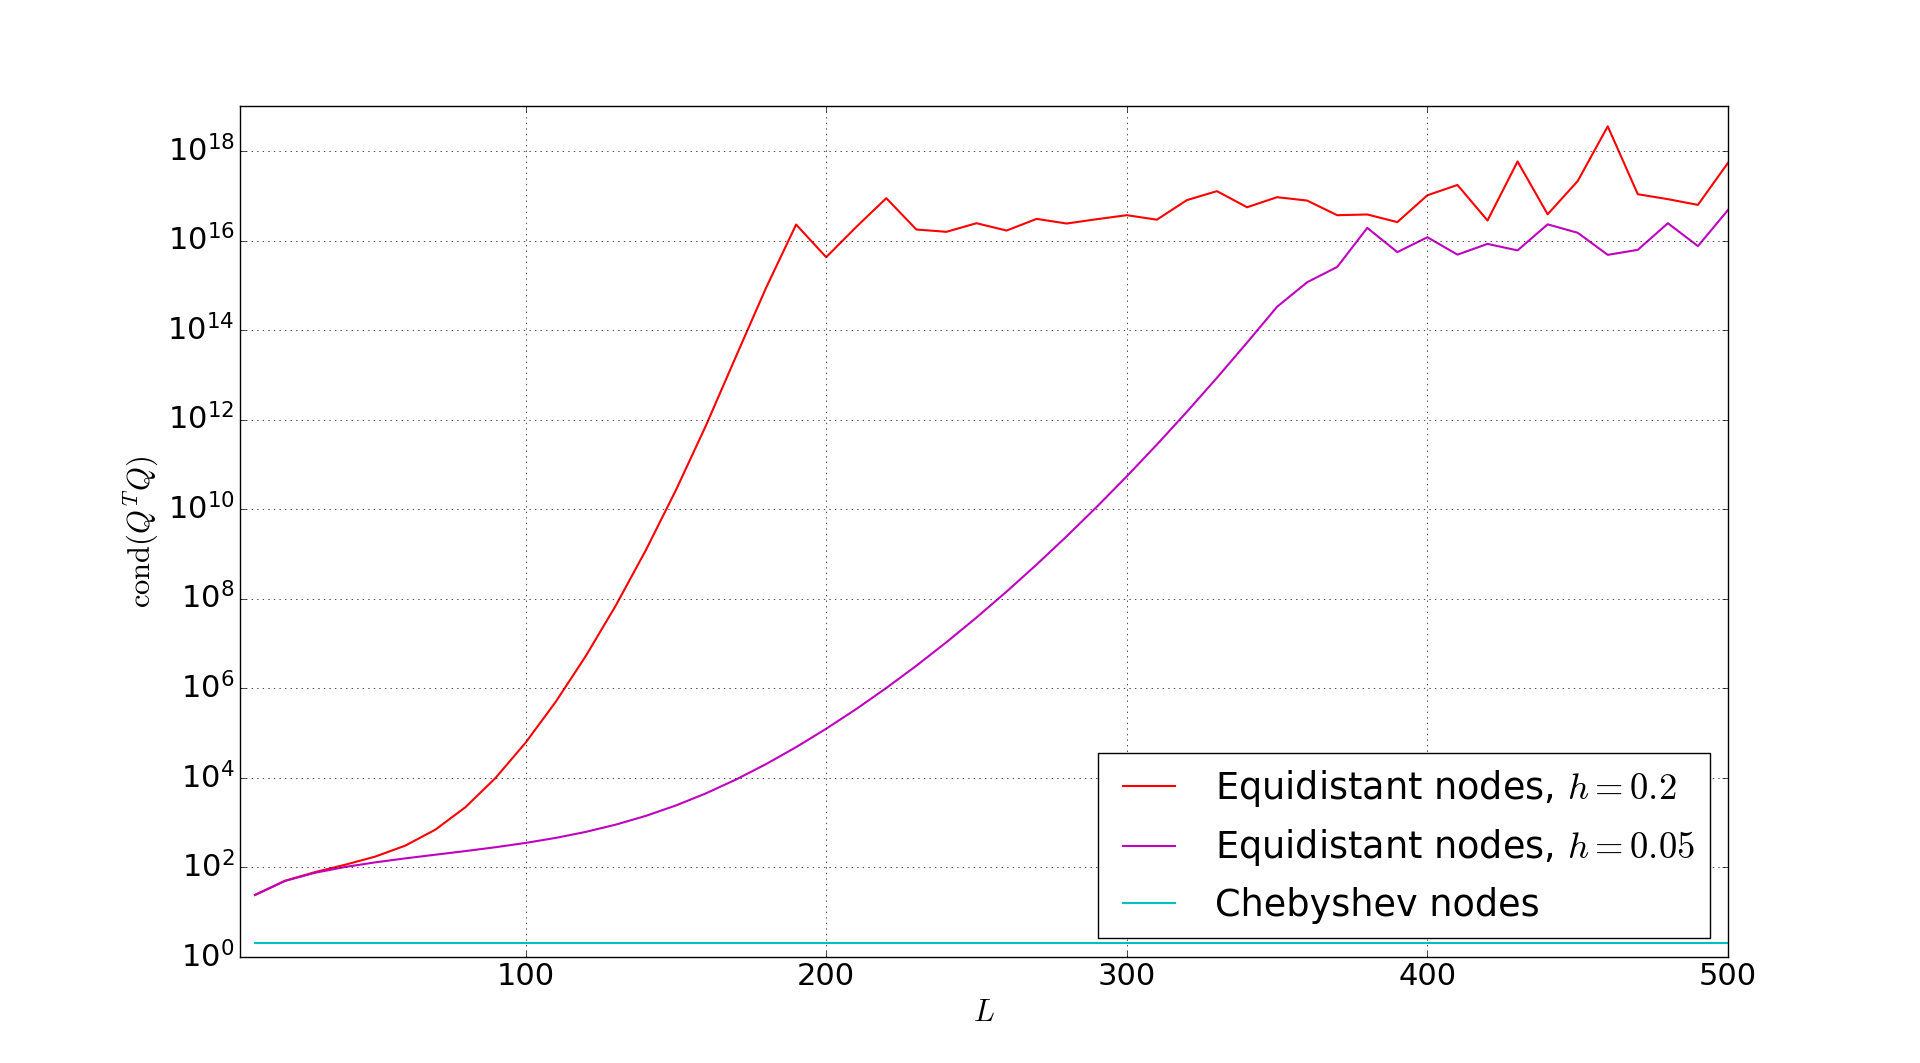
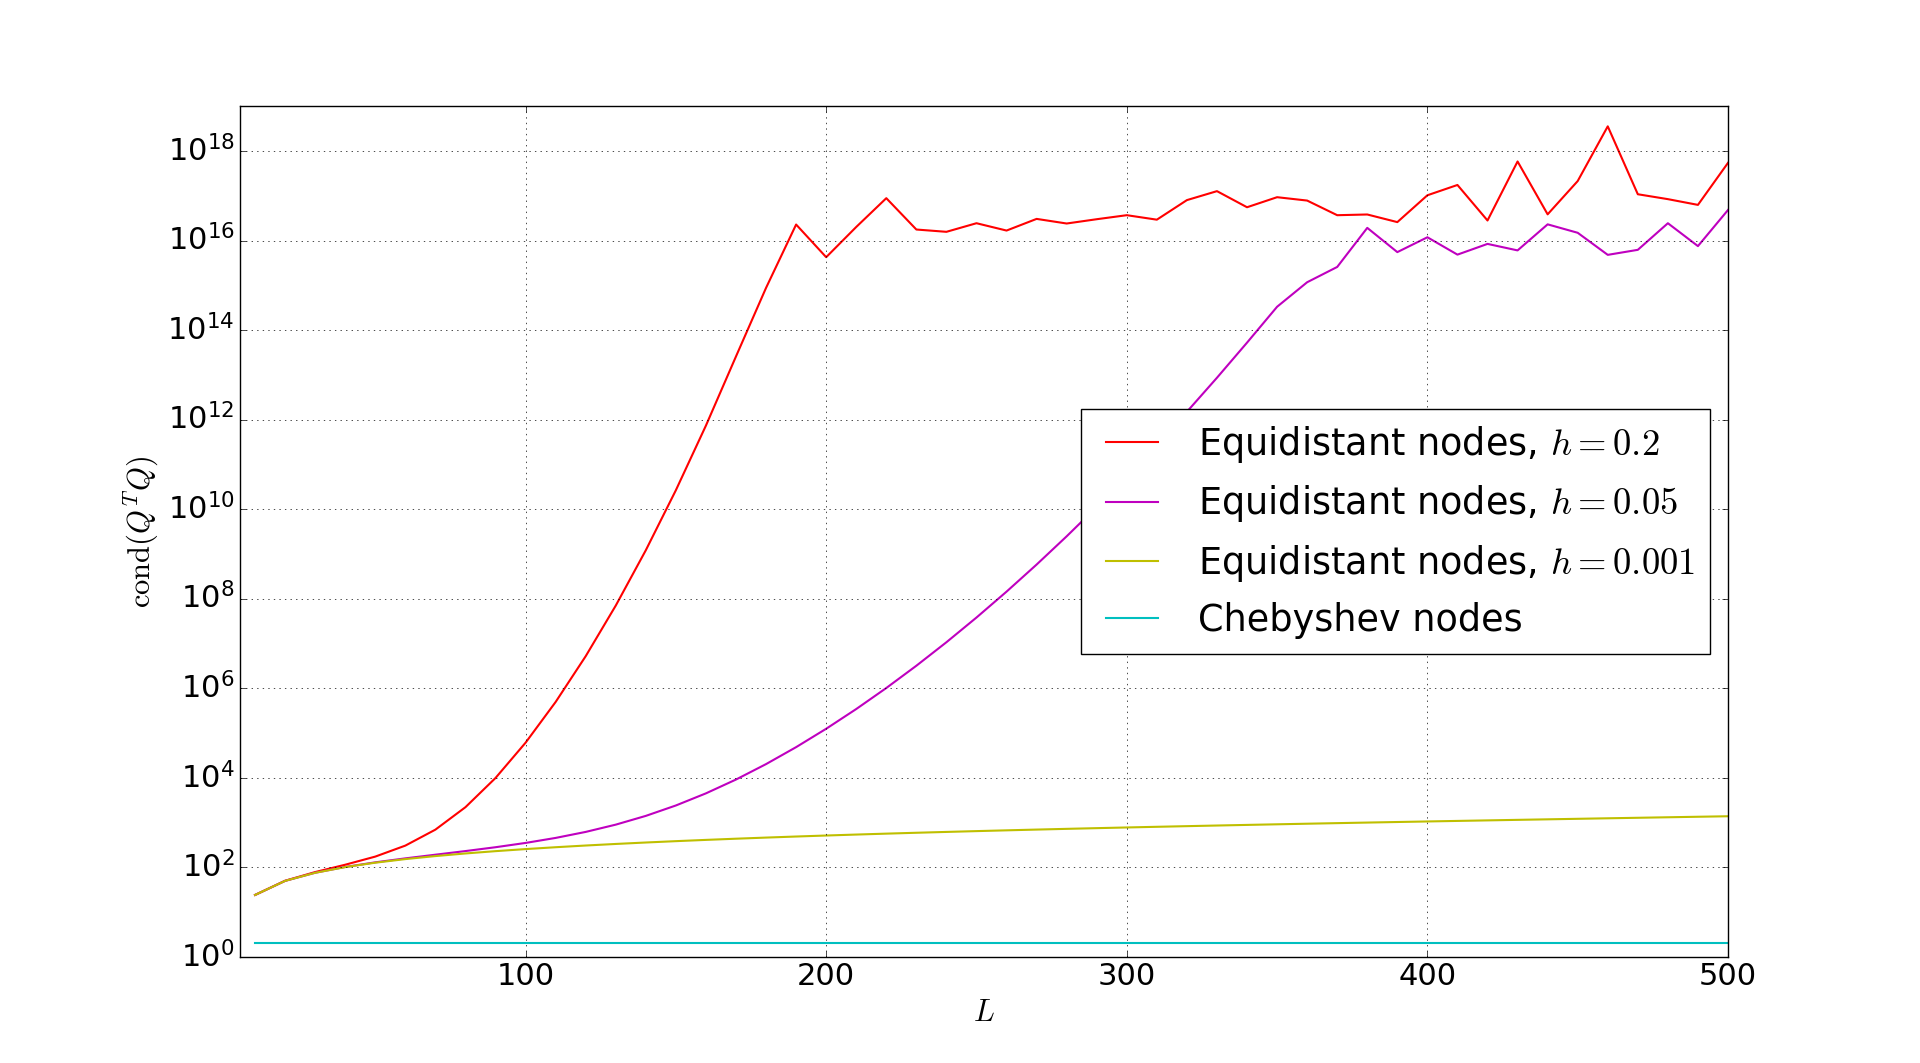
Plooots

diff --git a/l2_plots.py b/l2_plots.py
@@ -16,66 +16,75 @@ om_end = 2/tau
 
 
 # title = r"$L^2$ minimiation, $[\omega_{\min}, \omega_{\max}] = "+ f"[{om_min}, {om_max}]$, $h = {str(1/20)[0:8]}$"
-title = ""
-ax1, ax2, ax3 = prepare_plots(0, om_end, 0, 40, om_end-0.5, om_end, title=title, fontsize=22, ylabel=r"$|\tilde{\beta}_{\vec{\alpha}}(\omega)|$")
-for L in (50, 100, 200):
-    T = L *tau
-    alpha = compute_alpha(om_end, L, tau, om_min, om_max)
-    label = f"$L = {L}$, $T = {str(T)[0:5]}$"
-    plot_beta(alpha, L, tau, 0, om_end, ax1, label=label)
-    plot_beta(alpha, L, tau, 0, 40, ax2, label=label)
-    plot_beta(alpha, L, tau, om_end-0.5, om_end, ax3, label=label)
+# title = ""
+# ax1, ax2, ax3 = prepare_plots(0, om_end, 0, 40, om_end-0.5, om_end, title=title, fontsize=22, ylabel=r"$|\tilde{\beta}_{\vec{\alpha}}(\omega)|$")
+# for L in (50, 100, 200):
+#     T = L *tau
+#     alpha = compute_alpha(om_end, L, tau, om_min, om_max)
+#     label = f"$L = {L}$, $T = {str(T)[0:5]}$"
+#     plot_beta(alpha, L, tau, 0, om_end, ax1, label=label)
+#     plot_beta(alpha, L, tau, 0, 40, ax2, label=label)
+#     plot_beta(alpha, L, tau, om_end-0.5, om_end, ax3, label=label)
 
-ax1.plot(x:=np.linspace(0, om_end, num=10000), list(map(chi, x)), "--", color="black", label=r"$\chi_{[\omega_{\min}, \omega_{\max}]}$")
-ax2.plot(x:=np.linspace(0, 40, num=1000), list(map(chi, x)), "--", color="black", label=r"$\chi_{[\omega_{\min}, \omega_{\max}]}$")
-ax3.plot(x:=np.linspace(om_end, om_end-0.5, num=5), list(map(chi, x)), "--", color="black", label=r"$\chi_{[\omega_{\min}, \omega_{\max}]}$")
-
-
-L = 50
-T = L*tau
-
-alpha_four = fourier_indicator(om_min, om_max, L*tau)
-plot_beta(alpha_four, L, tau, 0, 40, ax2, label=f"IFT, $T={str(T)[0:5]}$", color="y")
-plot_beta(alpha_four, L, tau, om_end-0.5, om_end, ax3, label=f"IFT, $T={str(T)[0:5]}$", color="y")
+# ax1.plot(x:=np.linspace(0, om_end, num=10000), list(map(chi, x)), "--", color="black", label=r"$\chi_{[\omega_{\min}, \omega_{\max}]}$")
+# ax2.plot(x:=np.linspace(0, 40, num=1000), list(map(chi, x)), "--", color="black", label=r"$\chi_{[\omega_{\min}, \omega_{\max}]}$")
+# ax3.plot(x:=np.linspace(om_end, om_end-0.5, num=5), list(map(chi, x)), "--", color="black", label=r"$\chi_{[\omega_{\min}, \omega_{\max}]}$")
 
 
+# L = 50
+# T = L*tau
 
-tau = 0.0056
-om_min, om_max = 122, 130 
-chi = indicator(om_min, om_max)
-om_end = 2/tau
-
-
-# title = r"$L^2$ minimiation, $[\omega_{\min}, \omega_{\max}] = "+ f"[{om_min}, {om_max}]$, $h = {str(1/20)[0:8]}$"
-title = ""
-ax4, ax5, ax6 = prepare_plots(0, om_end, 110, 150, om_end-0.5, om_end, title=title, fontsize=22, ylabel=r"$|\tilde{\beta}_{\vec{\alpha}}(\omega)|$")
-for L in (50, 100, 200):
-    T = L *tau
-    alpha = compute_alpha(om_end, L, tau, om_min, om_max)
-    label = f"$L = {L}$, $T = {str(T)[0:5]}$"
-    plot_beta(alpha, L, tau, 0, om_end, ax4, label=label)
-    plot_beta(alpha, L, tau, 110, 150, ax5, label=label)
-    plot_beta(alpha, L, tau, om_end-0.5, om_end, ax6, label=label)
-
-ax4.plot(x:=np.linspace(0, om_end, num=10000), list(map(chi, x)), "--", color="black", label=r"$\chi_{[\omega_{\min}, \omega_{\max}]}$")
-ax5.plot(x:=np.linspace(110, 150, num=1000), list(map(chi, x)), "--", color="black", label=r"$\chi_{[\omega_{\min}, \omega_{\max}]}$")
-ax6.plot(x:=np.linspace(om_end, om_end-0.5, num=5), list(map(chi, x)), "--", color="black", label=r"$\chi_{[\omega_{\min}, \omega_{\max}]}$")
+# alpha_four = fourier_indicator(om_min, om_max, L*tau)
+# plot_beta(alpha_four, L, tau, 0, 40, ax2, label=f"IFT, $T={str(T)[0:5]}$", color="y")
+# plot_beta(alpha_four, L, tau, om_end-0.5, om_end, ax3, label=f"IFT, $T={str(T)[0:5]}$", color="y")
 
 
-L = 50
-T = L*tau
 
-alpha_four = fourier_indicator(om_min, om_max, L*tau)
-plot_beta(alpha_four, L, tau, 110, 150, ax5, label=f"IFT, $T={str(T)[0:5]}$", color="y")
-plot_beta(alpha_four, L, tau, om_end-0.5, om_end, ax6, label=f"IFT, $T={str(T)[0:5]}$", color="y")
+# tau = 0.0056
+# om_min, om_max = 122, 130 
+# chi = indicator(om_min, om_max)
+# om_end = 2/tau
 
 
-ax1.legend()
-ax2.legend()
-ax3.legend(loc="upper left")
-ax4.legend()
-ax5.legend()
-ax6.legend(loc="upper left")
+# # title = r"$L^2$ minimiation, $[\omega_{\min}, \omega_{\max}] = "+ f"[{om_min}, {om_max}]$, $h = {str(1/20)[0:8]}$"
+# title = ""
+# ax4, ax5, ax6 = prepare_plots(0, om_end, 110, 150, om_end-0.5, om_end, title=title, fontsize=22, ylabel=r"$|\tilde{\beta}_{\vec{\alpha}}(\omega)|$")
+# for L in (50, 100, 200):
+#     T = L *tau
+#     alpha = compute_alpha(om_end, L, tau, om_min, om_max)
+#     label = f"$L = {L}$, $T = {str(T)[0:5]}$"
+#     plot_beta(alpha, L, tau, 0, om_end, ax4, label=label)
+#     plot_beta(alpha, L, tau, 110, 150, ax5, label=label)
+#     plot_beta(alpha, L, tau, om_end-0.5, om_end, ax6, label=label + r", $h = 0.05$")
+    
+    
+# L = 200
+# T = L *tau
+# alpha = compute_alpha(om_end, L, tau, om_min, om_max, K=1000)
+# label = f"$L = {L}$, $T = {str(T)[0:5]}$, "
+# plot_beta(alpha, L, tau, 0, om_end, ax4, label=label)
+# plot_beta(alpha, L, tau, 110, 150, ax5, label=label)
+# plot_beta(alpha, L, tau, om_end-0.5, om_end, ax6, label=label + r", $h = 0.001$")
+
+# ax4.plot(x:=np.linspace(0, om_end, num=10000), list(map(chi, x)), "--", color="black", label=r"$\chi_{[\omega_{\min}, \omega_{\max}]}$")
+# ax5.plot(x:=np.linspace(110, 150, num=1000), list(map(chi, x)), "--", color="black", label=r"$\chi_{[\omega_{\min}, \omega_{\max}]}$")
+# ax6.plot(x:=np.linspace(om_end, om_end-0.5, num=5), list(map(chi, x)), "--", color="black", label=r"$\chi_{[\omega_{\min}, \omega_{\max}]}$")
+
+
+# L = 50
+# T = L*tau
+
+# alpha_four = fourier_indicator(om_min, om_max, L*tau)
+# plot_beta(alpha_four, L, tau, 110, 150, ax5, label=f"IFT, $T={str(T)[0:5]}$", color="y")
+# plot_beta(alpha_four, L, tau, om_end-0.5, om_end, ax6, label=f"IFT, $T={str(T)[0:5]}$", color="y")
+
+
+# ax1.legend()
+# ax2.legend()
+# ax3.legend(loc="upper left")
+# ax4.legend()
+# ax5.legend()
+# ax6.legend(loc="upper left")
 
 
 L_max = 500
@@ -85,8 +94,10 @@ ax7 = prepare_plots(5, L_max, title=title, xlabel="$L$", ylabel=r"$\mathrm{cond}
 Ls = range(10, L_max+1, 10)
 K = 5
 K2 = 20
+K3 = 1000
 conds = []
 conds_2 = []
+conds_3 = []
 conds_cheb = []
 for L in Ls:
     mesh = np.linspace(0, om_end - 1/K, num = int(K*om_end)) + 1/(2*K)
@@ -97,14 +108,19 @@ for L in Ls:
     Q = q_eval_mat(mesh, L, tau)
     conds_2.append(np.linalg.cond(Q.transpose() @ Q))
     
+    mesh = np.linspace(0, om_end - 1/K3, num = int(K3*om_end)) + 1/(2*K3)
+    Q = q_eval_mat(mesh, L, tau)
+    conds_3.append(np.linalg.cond(Q.transpose() @ Q))
+    
     mesh = chebyshev_nodes(0, om_end, int(K*om_end))
     Q = q_eval_mat(mesh, L, tau)
     conds_cheb.append(np.linalg.cond(Q.transpose() @ Q))
     
 ax7.semilogy(Ls, conds, "r", label="Equidistant nodes, $h=0.2$")
 ax7.semilogy(Ls, conds_2, "m", label="Equidistant nodes, $h=0.05$")
+ax7.semilogy(Ls, conds_3, "y", label="Equidistant nodes, $h=0.001$")
 ax7.semilogy(Ls, conds_cheb, "c", label="Chebyshev nodes")
-ax7.legend(loc="lower right")
+ax7.legend(loc="best")
 
 
 plt.show()
